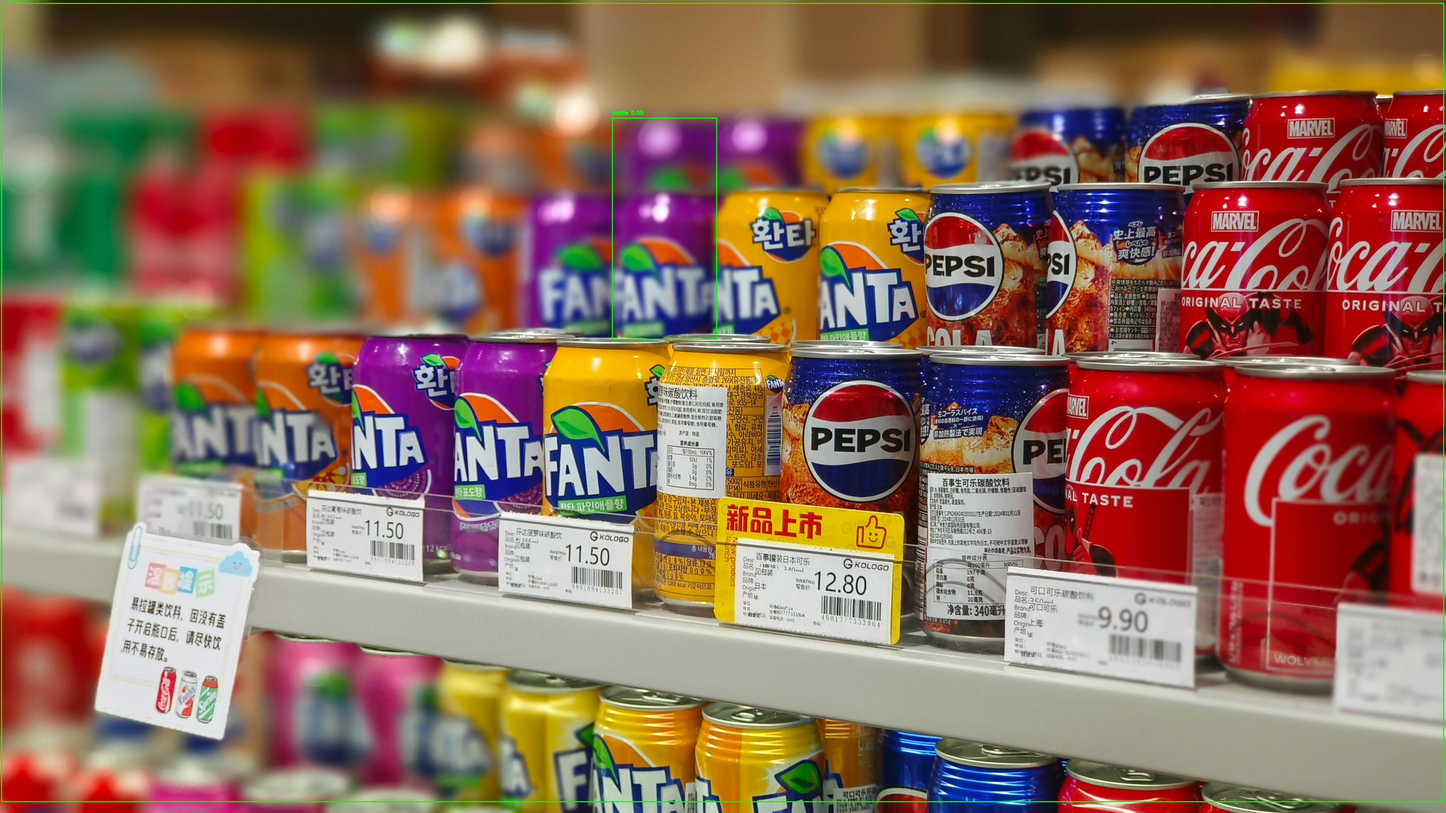
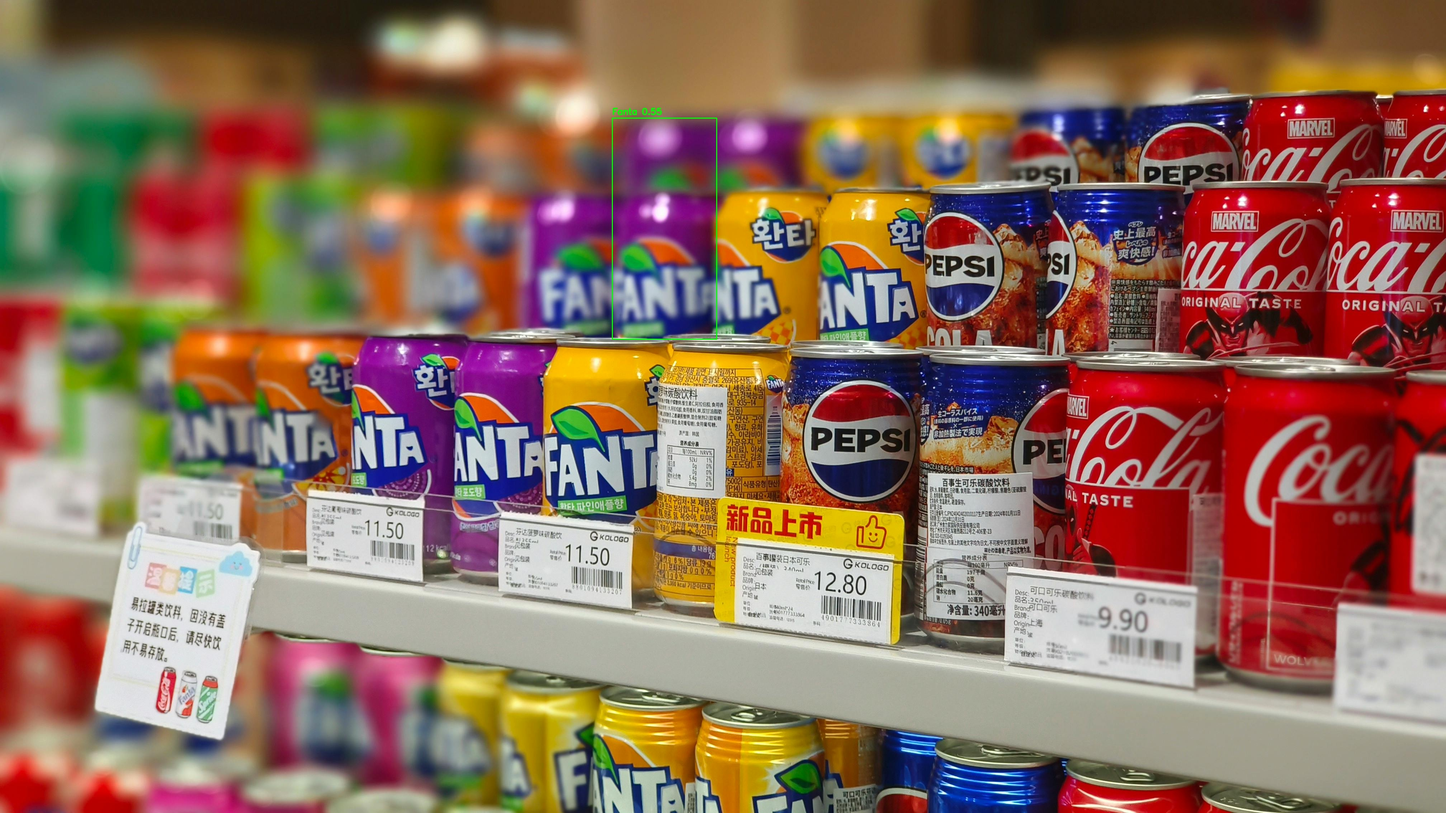
First commit

diff --git a/Obj_det.py b/Obj_det.py
@@ -1,20 +1,58 @@
-'''
+# Original Code
+
 import os
 import cv2
 import numpy as np
-from ultralytics import YOLO  # Using YOLOv8 for simplicity
+import pandas as pd
+import random
+from datetime import datetime, timedelta
+from ultralytics import YOLO  # Using YOLOv8 for advanced detection
 
 # Paths
 IMAGES_FOLDER = "images"
 RESULT_FOLDER = "result"
-MODEL_PATH = "yolov8n.pt"  # Pre-trained YOLOv8 model
+MODEL_PATH = "yolov8x.pt"  # Using YOLOv8x for high-accuracy detection
+CSV_PATH = os.path.join(RESULT_FOLDER, "detected_objects.csv")
 
 # Create result folder if it doesn't exist
 if not os.path.exists(RESULT_FOLDER):
     os.makedirs(RESULT_FOLDER)
 
-# Load YOLO model
+# Load YOLO model with high confidence threshold
 model = YOLO(MODEL_PATH)
+
+# Function to generate random dates
+def random_date(start_date, end_date):
+    delta = end_date - start_date
+    random_days = random.randint(0, delta.days)
+    return start_date + timedelta(days=random_days)
+
+# Generate manufacturing and expiry dates
+def generate_dates():
+    manufacturing_date = random_date(datetime(2024, 6, 1), datetime(2025, 2, 1)).strftime("%Y-%m-%d")
+    expiry_date = random_date(datetime(2025, 1, 1), datetime(2026, 12, 31)).strftime("%Y-%m-%d")
+    return manufacturing_date, expiry_date
+
+# Object name mapping for more attractive names
+object_name_mapping = {
+    "bottle": ["Coca-Cola", "Pepsi", "Sprite", "Fanta", "Wine", "Sauce"],
+    "fridge": ["Samsung Refrigerator", "LG Fridge", "Whirlpool Cooler", "Godrej Freezer"],
+    "laptop": ["Dell Inspiron", "HP Pavilion", "MacBook Pro", "Lenovo ThinkPad"],
+    "phone": ["iPhone 14", "Samsung Galaxy S23", "OnePlus 11", "Google Pixel 7"]
+}
+
+# Random descriptions
+random_descriptions = [
+    "High-quality product with premium materials.",
+    "Limited edition item with exclusive features.",
+    "Best-selling product with high durability.",
+    "Eco-friendly and sustainable product design.",
+    "Latest model with advanced technology.",
+    "Budget-friendly with great performance."
+]
+
+# Data storage
+data = []
 
 # Process each image in the images folder
 for image_name in os.listdir(IMAGES_FOLDER):
@@ -30,8 +68,8 @@ for image_name in os.listdir(IMAGES_FOLDER):
         print(f"Failed to read image: {image_name}")
         continue
 
-    # Perform object detection
-    results = model(image)
+    # Perform object detection with higher confidence threshold
+    results = model(image, conf=0.5)  # Increase confidence threshold to improve accuracy
 
     # Draw bounding boxes and labels on the image
     for result in results:
@@ -39,73 +77,41 @@ for image_name in os.listdir(IMAGES_FOLDER):
             x1, y1, x2, y2, confidence, class_id = box[:6].tolist()
             label = model.names[int(class_id)]
 
+            # Filter out low-confidence detections
+            if confidence < 0.5:
+                continue
+
+            # Ignore detected persons from CSV
+            if label.lower() == "person":
+                continue
+
+            # Replace generic object names with more attractive names
+            if label in object_name_mapping:
+                label = random.choice(object_name_mapping[label])
+
             # Draw rectangle
             cv2.rectangle(image, (int(x1), int(y1)), (int(x2), int(y2)), (0, 255, 0), 2)
 
-            # Draw label
+            # Draw label with better visibility
             label_text = f"{label} {confidence:.2f}"
-            cv2.putText(image, label_text, (int(x1), int(y1) - 10), cv2.FONT_HERSHEY_SIMPLEX, 0.5, (0, 255, 0), 2)
+            cv2.putText(image, label_text, (int(x1), int(y1) - 10), cv2.FONT_HERSHEY_SIMPLEX, 0.8, (0, 255, 0), 2, cv2.LINE_AA)
+
+            # Generate random manufacturing and expiry dates
+            mfg_date, exp_date = generate_dates()
+
+            # Generate random product description
+            description = random.choice(random_descriptions)
+
+            # Append data for CSV
+            data.append([label, mfg_date, exp_date, description])
 
     # Save the result
     result_path = os.path.join(RESULT_FOLDER, image_name)
     cv2.imwrite(result_path, image)
     print(f"Processed and saved: {result_path}")
 
-print("Object detection completed.")
-'''
-
-'''Improved Code'''
-
-import os
-import cv2
-import numpy as np
-from ultralytics import YOLO  # Using YOLOv8 for simplicity
-
-# Paths
-IMAGES_FOLDER = "images"
-RESULT_FOLDER = "result"
-MODEL_PATH = "yolov8x.pt"  # Using YOLOv8x for more comprehensive detection
-
-# Create result folder if it doesn't exist
-if not os.path.exists(RESULT_FOLDER):
-    os.makedirs(RESULT_FOLDER)
-
-# Load YOLO model
-model = YOLO(MODEL_PATH)
-
-# Process each image in the images folder
-for image_name in os.listdir(IMAGES_FOLDER):
-    image_path = os.path.join(IMAGES_FOLDER, image_name)
-    
-    # Check if it's a valid image
-    if not image_name.lower().endswith((".jpg", ".jpeg", ".png")):
-        continue
-
-    # Read the image
-    image = cv2.imread(image_path)
-    if image is None:
-        print(f"Failed to read image: {image_name}")
-        continue
-
-    # Perform object detection
-    results = model(image)
-
-    # Draw bounding boxes and labels on the image
-    for result in results:
-        for box in result.boxes.data:
-            x1, y1, x2, y2, confidence, class_id = box[:6].tolist()
-            label = model.names[int(class_id)]
-
-            # Draw rectangle
-            cv2.rectangle(image, (int(x1), int(y1)), (int(x2), int(y2)), (0, 255, 0), 2)
-
-            # Draw label
-            label_text = f"{label} {confidence:.2f}"
-            cv2.putText(image, label_text, (int(x1), int(y1) - 10), cv2.FONT_HERSHEY_SIMPLEX, 0.5, (0, 255, 0), 2)
-
-    # Save the result
-    result_path = os.path.join(RESULT_FOLDER, image_name)
-    cv2.imwrite(result_path, image)
-    print(f"Processed and saved: {result_path}")
-
-print("Object detection completed.")
+# Save detected objects to CSV
+columns = ["Product Name", "Manufacturing Date", "Expiry Date", "Description"]
+df = pd.DataFrame(data, columns=columns)
+df.to_csv(CSV_PATH, index=False)
+print(f"Object detection completed with improved accuracy. Data saved to {CSV_PATH}.")
